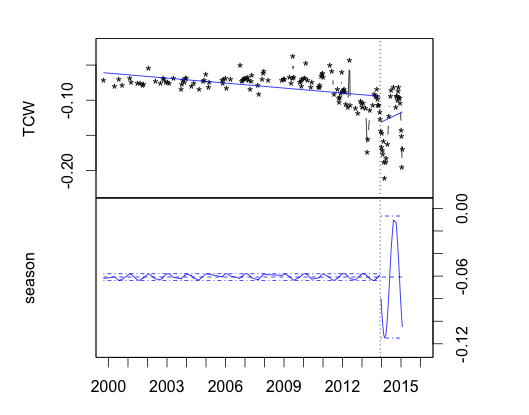
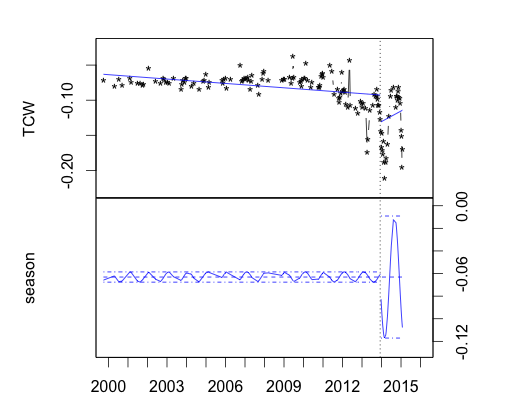
added rlm to coefSegments plot

diff --git a/README.md b/README.md
@@ -96,7 +96,7 @@ Here, we use the TCW time series as an example, but this was performed for all s
 ```R
 library(strucchange)
 source('R/coefSegments.R')
-segs <- coefSegments(LTS$TCW, dates = as.Date(LTS$date), breaks = 1, plot = TRUE, dataLabel = 'TCW')
+segs <- coefSegments(LTS$TCW, dates = as.Date(LTS$date), model = 'rlm', breaks = 1, plot = TRUE, dataLabel = 'TCW')
 print(segs)
 ```
 
